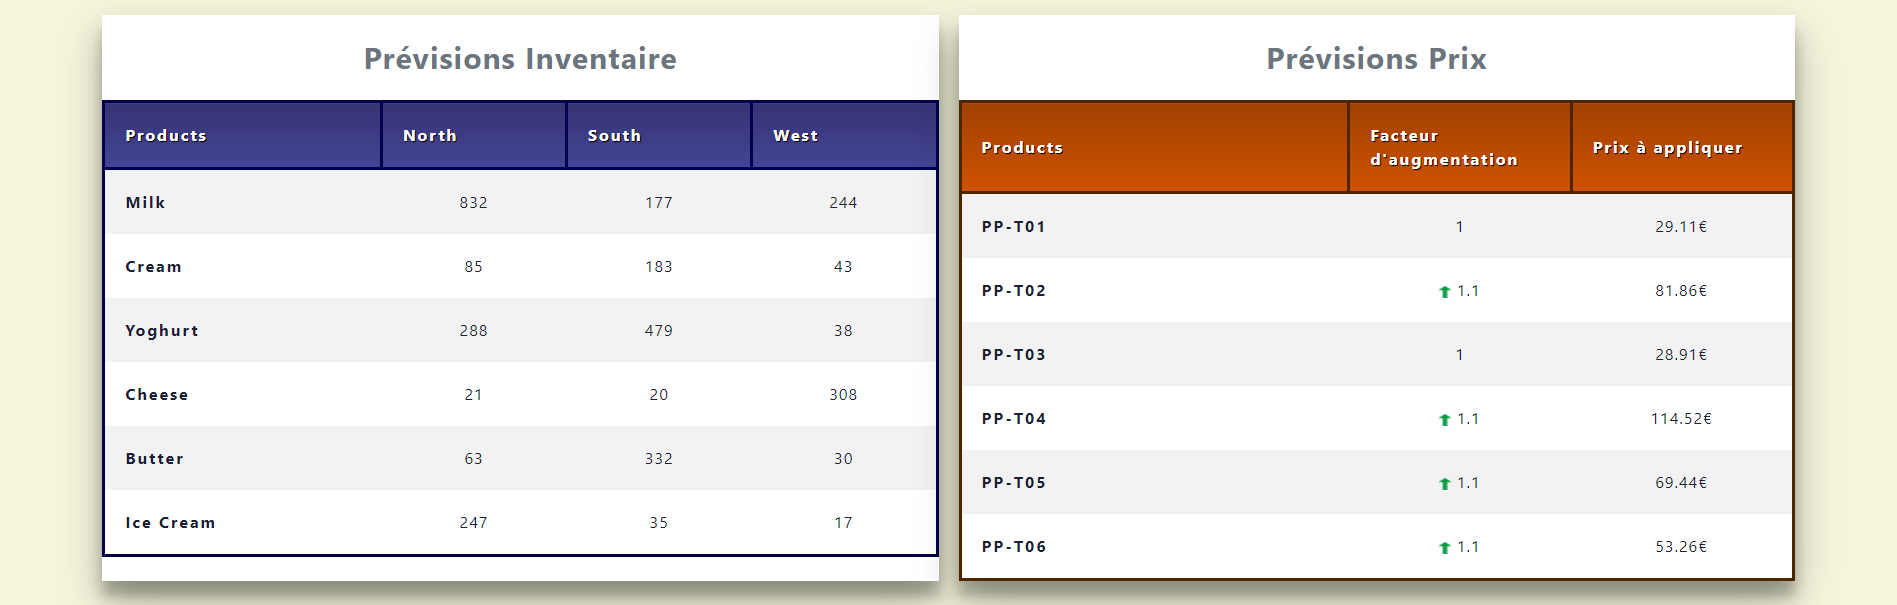
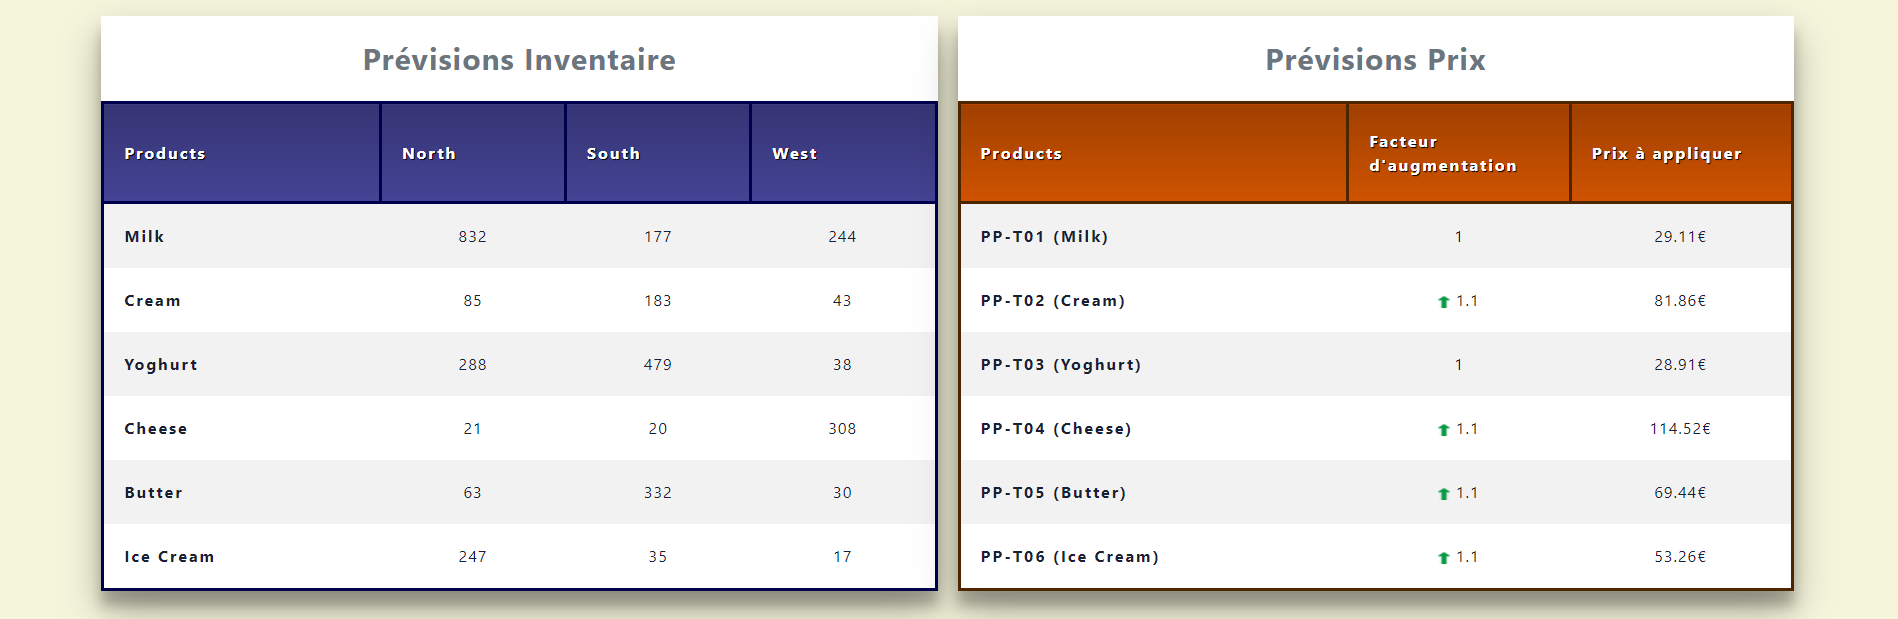
Correctifs interface joueur + correction faute de frappe Usage
Interface Joueur :
Nom des colonnes du tableau prix
Nom des produits dans le tableau des prix
Ecart entre les graphiques d'évolution

diff --git a/django_server/erpsim_helper/templates/index.html b/django_server/erpsim_helper/templates/index.html
@@ -47,8 +47,8 @@
 
        <h2>Conseils départ
        <hr></h2>
-       <p>Repartir les stocks en mettant 1/3 par entrepot</p>
-       <p>Augmentez les prix de 20% </p>
+       <p>Repartir les stocks en mettant 1/3 par entrepôt</p>
+       <p>Augmenter les prix de 20% </p>
 
    </div>
 
@@ -106,8 +106,8 @@
                     <thead id="tableau2thead">
                     <tr class="tableau2tr">
                         <th class="tableau2th" scope="col">Products</th>
-                        <th class="tableau2th" scope="col">Tendances</th>
-                        <th class="tableau2th" scope="col">Previsions</th>
+                        <th class="tableau2th" scope="col">Facteur d'augmentation</th>
+                        <th class="tableau2th" scope="col">Prix à appliquer</th>
                     </tr>
                     </thead>
                     <tbody>

diff --git a/django_server/erpsim_helper/static/css/main.css b/django_server/erpsim_helper/static/css/main.css
@@ -1,11 +1,12 @@
 .graph {
     box-shadow: rgba(0, 0, 0, 0.16) 0px 3px 6px, rgba(0, 0, 0, 0.23) 0px 3px 6px;
     margin : 10px;
+    margin-bottom: 20px;
 }
 
 .firstrow {
     display : flex;
-    display-position : row;v
+    justify-content: space-evenly;
 
 }
 

diff --git a/django_server/erpsim_helper/static/css/style.css b/django_server/erpsim_helper/static/css/style.css
@@ -197,6 +197,14 @@ tbody .tableau2tr {
     background-color:white;
 }
 
+#tableau1thead {
+  height: 100px;
+}
+
+#tableau2thead {
+  height: 100px;
+}
+
 
 /* LIST */
 

diff --git a/django_server/erpsim_helper/views.py b/django_server/erpsim_helper/views.py
@@ -140,7 +140,8 @@ def index(request):     # TO DO
         # generate dict with key: OO-T01, because this is the format in ERPsim to change prices
         prices_matrix_name_converted = {}
         for material_description, material_number in name_conversion_for_material.items():
-            prices_matrix_name_converted[material_number] = prices_matrix[material_description]
+            prices_matrix_name_converted[str( material_number +  " ("+ material_description +  ") ")] = prices_matrix[material_description]
+            print(prices_matrix_name_converted)
 
     context = {
         'sales_evolution_plot': sales_evolution_plot,

diff --git a/Sphinx/docs/source/PartieUtilisateur/Usage.rst b/Sphinx/docs/source/PartieUtilisateur/Usage.rst
@@ -335,7 +335,7 @@ est affiché dans la colonne *A METTRE*.
    le prix très vite dans *ERPSIM* en cochant les produits à augmenter et en appliquant 10% d'augmentation sur ceux-ci, ou en cochant les 
    produits à baisser et en appliquant 10% de diminution sur ceux-ci. 
 
-   On pourrait tout de même prévoir, dans la partie :ref:`perspective d'évolution <evolution>`, optimiser cette partie pour augmenter 
+   On pourrait tout de même prévoir, dans la partie :ref:`perspective d'évolution <evolution>`, d'optimiser cette partie pour augmenter 
    ou diminuer le prix d'un certain coefficient pour chaque produit. 
 
 .. warning:: 
